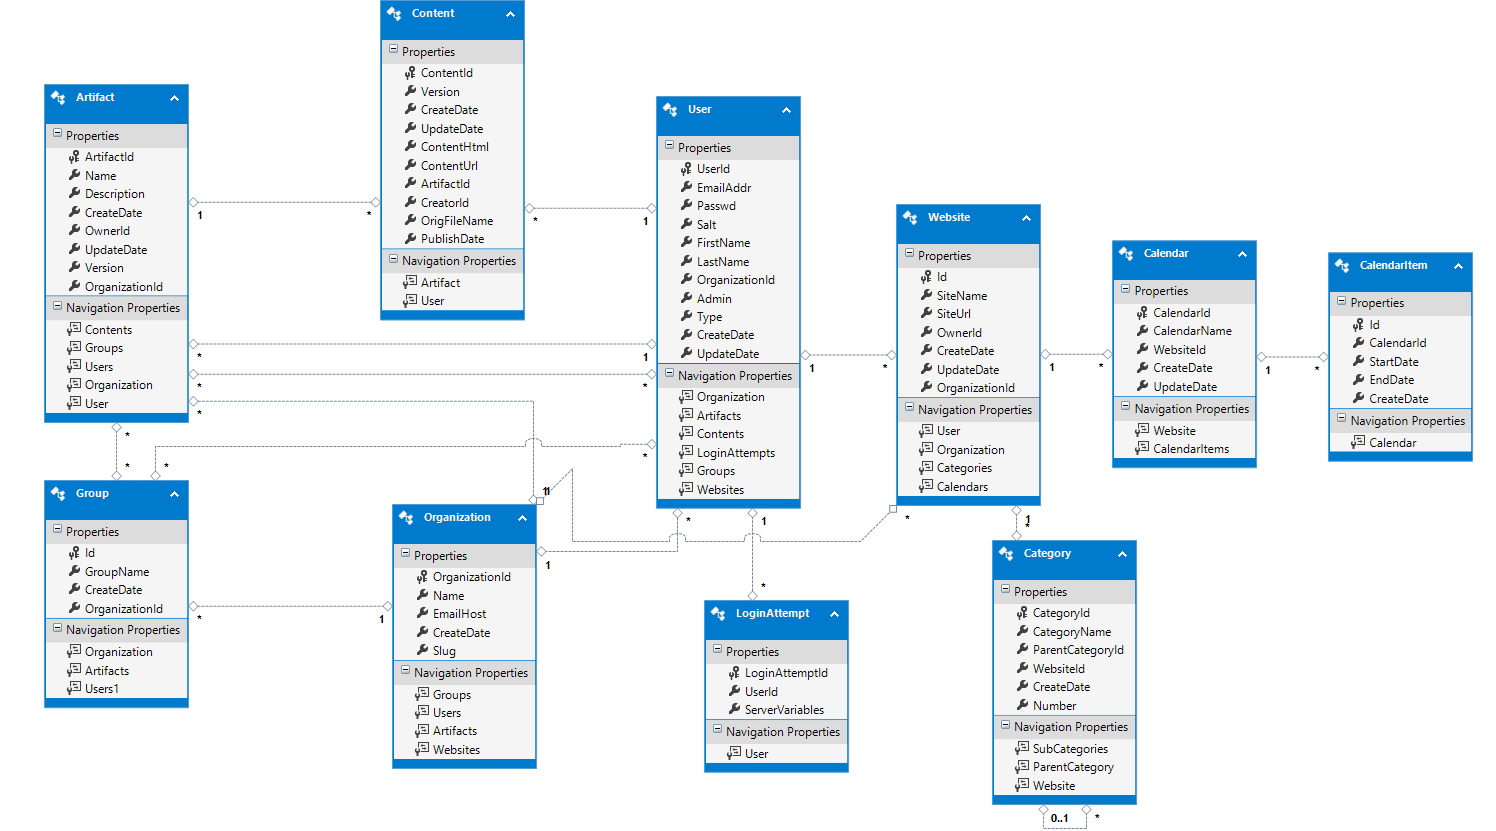
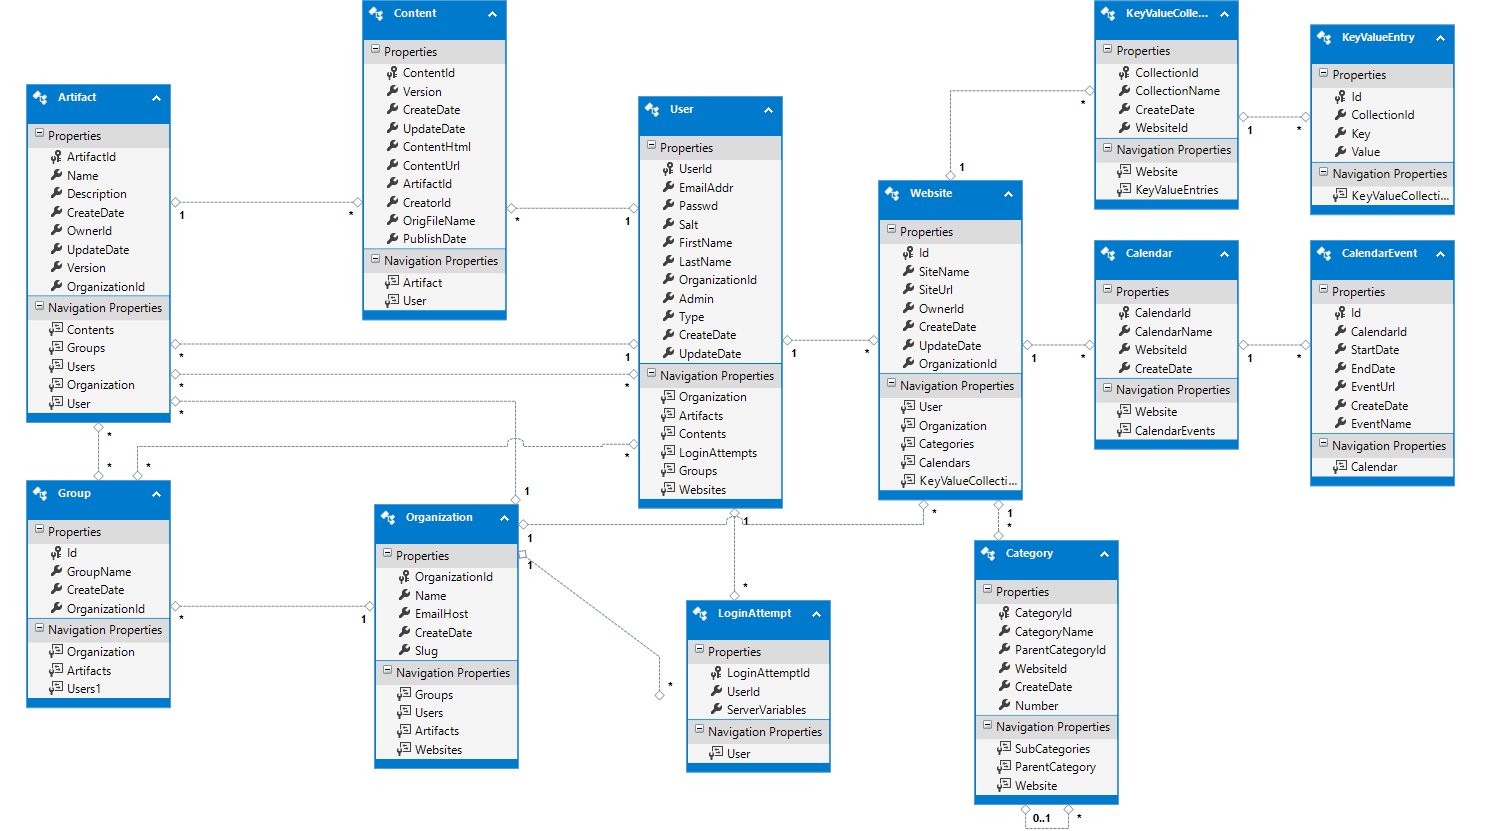
Work in progress on Lists.

diff --git a/GovernCMSWeb/Models/KeyValueCollection.cs b/GovernCMSWeb/Models/KeyValueCollection.cs
@@ -1,0 +1,32 @@
+//------------------------------------------------------------------------------
+// <auto-generated>
+//     This code was generated from a template.
+//
+//     Manual changes to this file may cause unexpected behavior in your application.
+//     Manual changes to this file will be overwritten if the code is regenerated.
+// </auto-generated>
+//------------------------------------------------------------------------------
+
+namespace GovernCMS.Models
+{
+    using System;
+    using System.Collections.Generic;
+    
+    public partial class KeyValueCollection
+    {
+        [System.Diagnostics.CodeAnalysis.SuppressMessage("Microsoft.Usage", "CA2214:DoNotCallOverridableMethodsInConstructors")]
+        public KeyValueCollection()
+        {
+            this.KeyValueEntries = new HashSet<KeyValueEntry>();
+        }
+    
+        public int CollectionId { get; set; }
+        public string CollectionName { get; set; }
+        public System.DateTime CreateDate { get; set; }
+        public int WebsiteId { get; set; }
+    
+        public virtual Website Website { get; set; }
+        [System.Diagnostics.CodeAnalysis.SuppressMessage("Microsoft.Usage", "CA2227:CollectionPropertiesShouldBeReadOnly")]
+        public virtual ICollection<KeyValueEntry> KeyValueEntries { get; set; }
+    }
+}

diff --git a/GovernCMSWeb/Models/KeyValueEntry.cs b/GovernCMSWeb/Models/KeyValueEntry.cs
@@ -1,0 +1,24 @@
+//------------------------------------------------------------------------------
+// <auto-generated>
+//     This code was generated from a template.
+//
+//     Manual changes to this file may cause unexpected behavior in your application.
+//     Manual changes to this file will be overwritten if the code is regenerated.
+// </auto-generated>
+//------------------------------------------------------------------------------
+
+namespace GovernCMS.Models
+{
+    using System;
+    using System.Collections.Generic;
+    
+    public partial class KeyValueEntry
+    {
+        public int Id { get; set; }
+        public int CollectionId { get; set; }
+        public string Key { get; set; }
+        public string Value { get; set; }
+    
+        public virtual KeyValueCollection KeyValueCollection { get; set; }
+    }
+}

diff --git a/GovernCMSWeb/Models/Website.cs b/GovernCMSWeb/Models/Website.cs
@@ -19,6 +19,7 @@ namespace GovernCMS.Models
         {
             this.Categories = new HashSet<Category>();
             this.Calendars = new HashSet<Calendar>();
+            this.KeyValueCollections = new HashSet<KeyValueCollection>();
         }
     
         public int Id { get; set; }
@@ -35,5 +36,7 @@ namespace GovernCMS.Models
         public virtual ICollection<Category> Categories { get; set; }
         [System.Diagnostics.CodeAnalysis.SuppressMessage("Microsoft.Usage", "CA2227:CollectionPropertiesShouldBeReadOnly")]
         public virtual ICollection<Calendar> Calendars { get; set; }
+        [System.Diagnostics.CodeAnalysis.SuppressMessage("Microsoft.Usage", "CA2227:CollectionPropertiesShouldBeReadOnly")]
+        public virtual ICollection<KeyValueCollection> KeyValueCollections { get; set; }
     }
 }

diff --git a/GovernCMSWeb/Models/GovCMSModel.Context.cs b/GovernCMSWeb/Models/GovCMSModel.Context.cs
@@ -35,5 +35,7 @@ namespace GovernCMS.Models
         public virtual DbSet<Category> Categories { get; set; }
         public virtual DbSet<Calendar> Calendars { get; set; }
         public virtual DbSet<CalendarEvent> CalendarEvents { get; set; }
+        public virtual DbSet<KeyValueCollection> KeyValueCollections { get; set; }
+        public virtual DbSet<KeyValueEntry> KeyValueEntries { get; set; }
     }
 }
